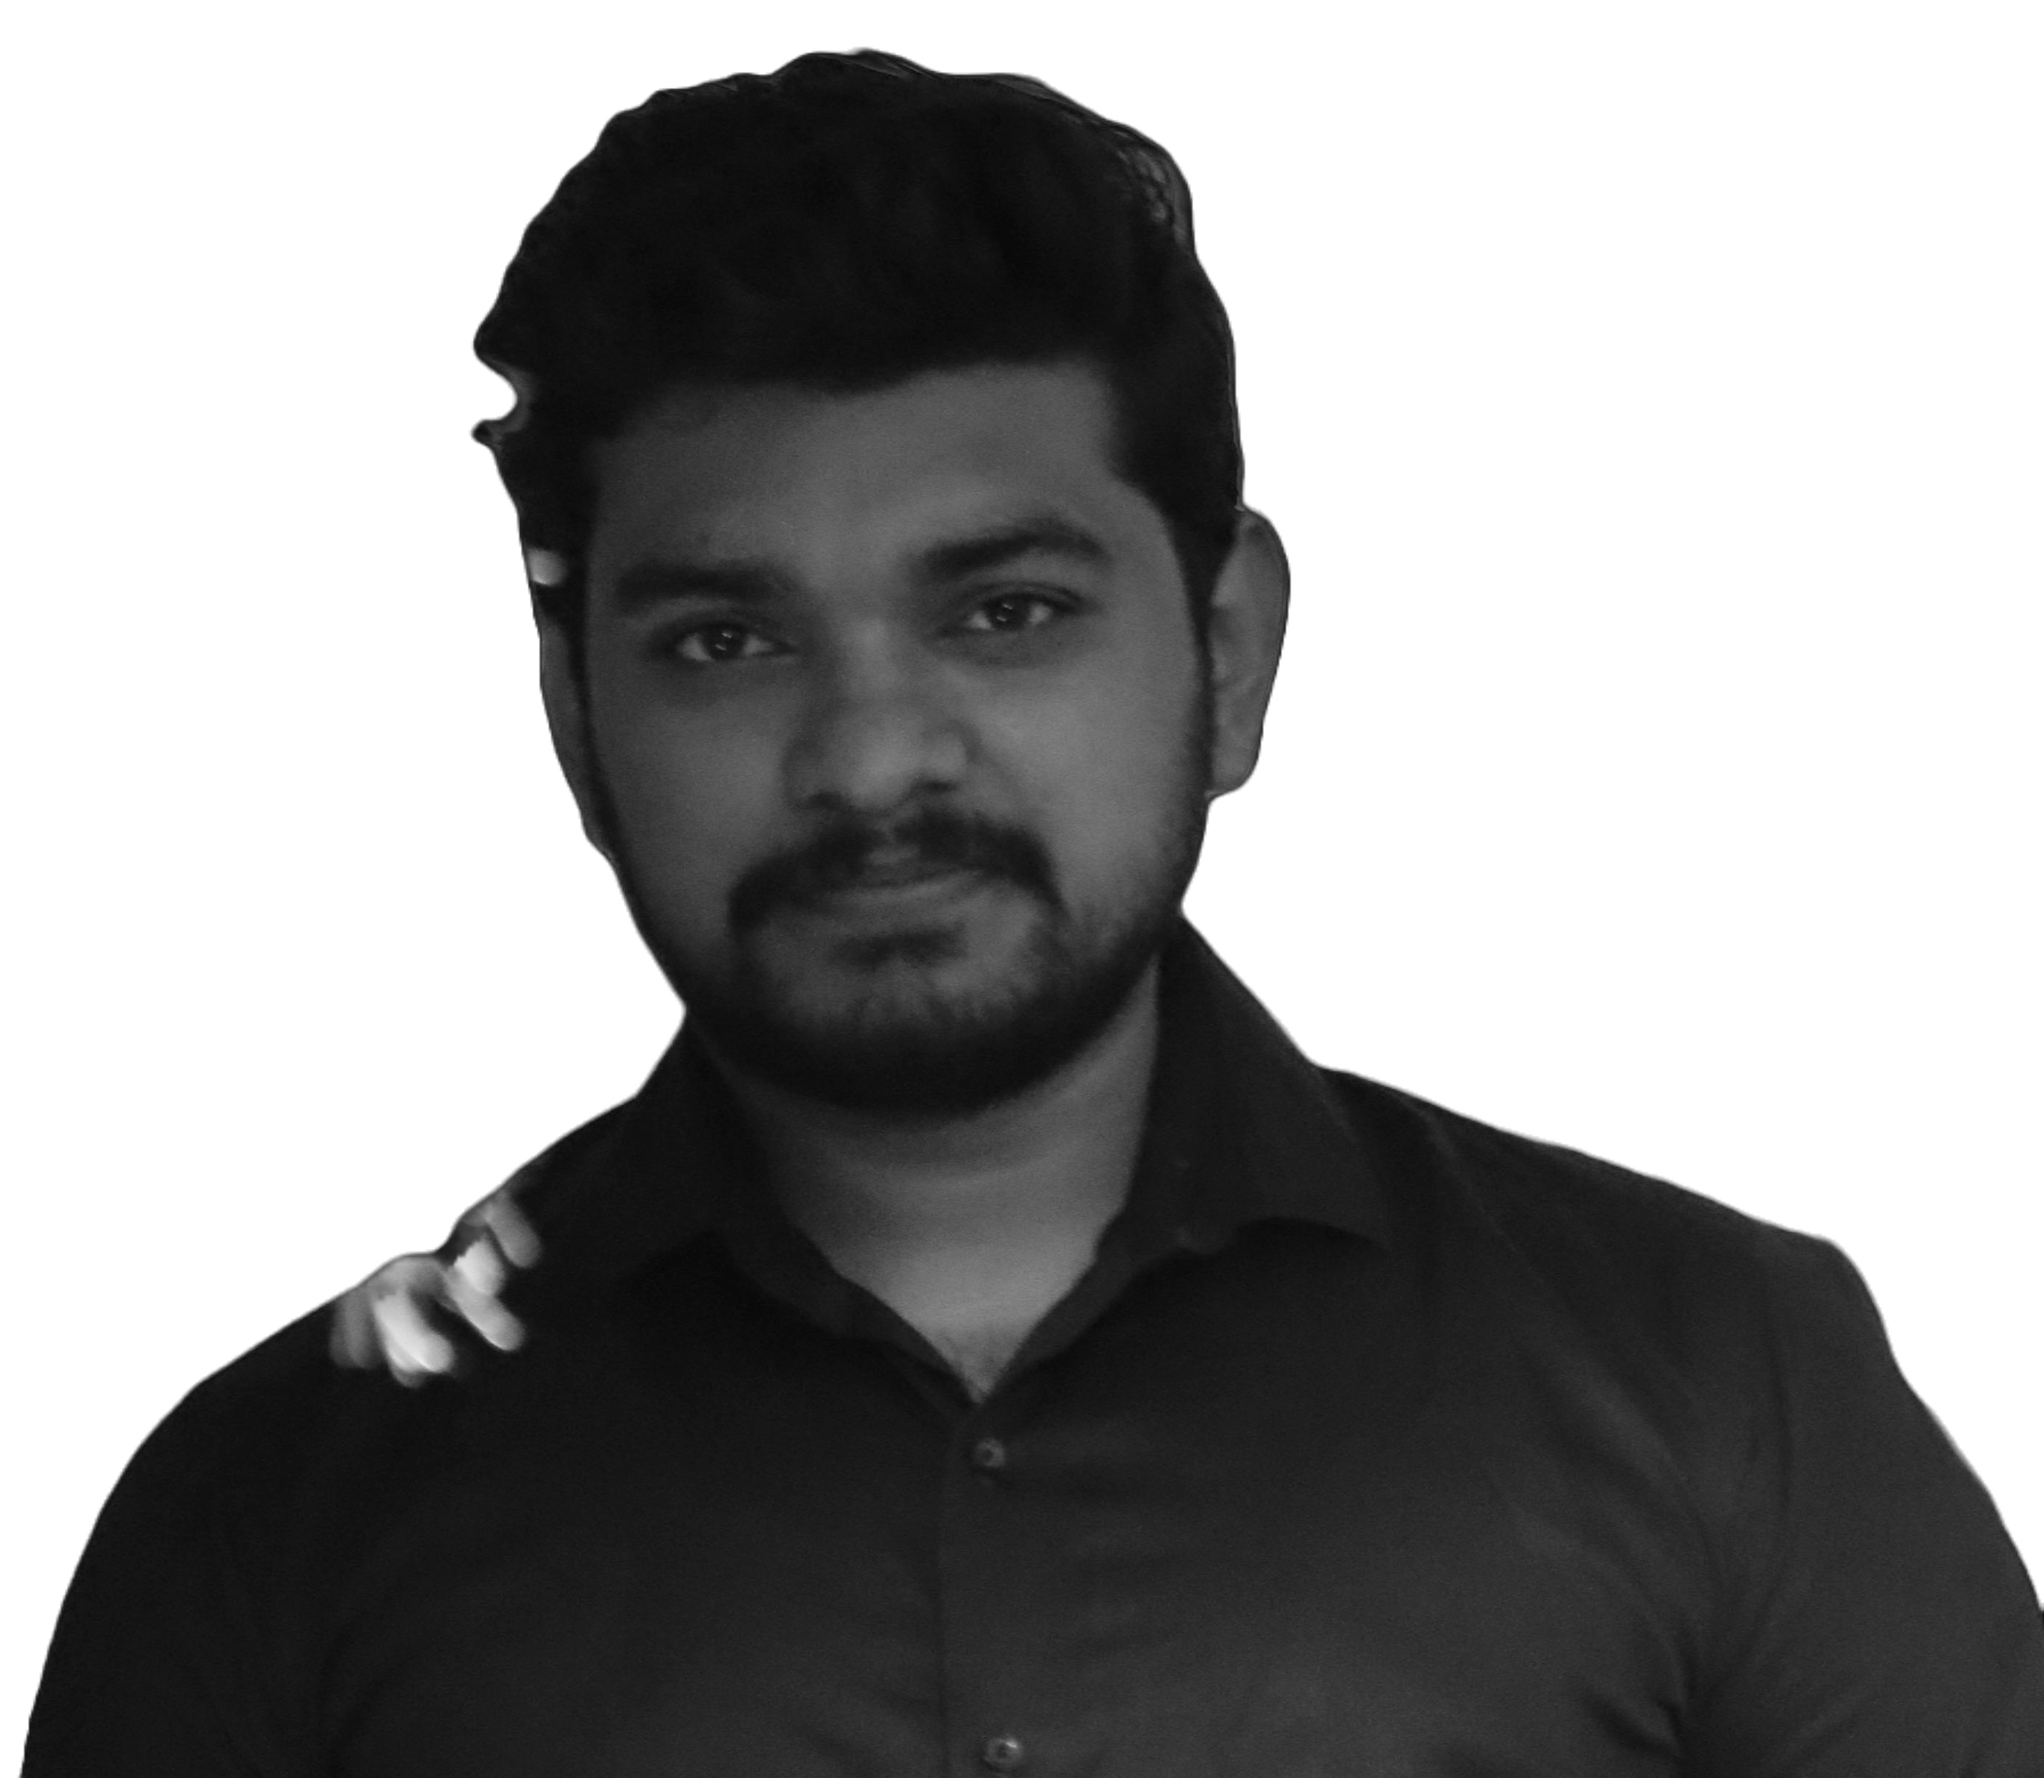
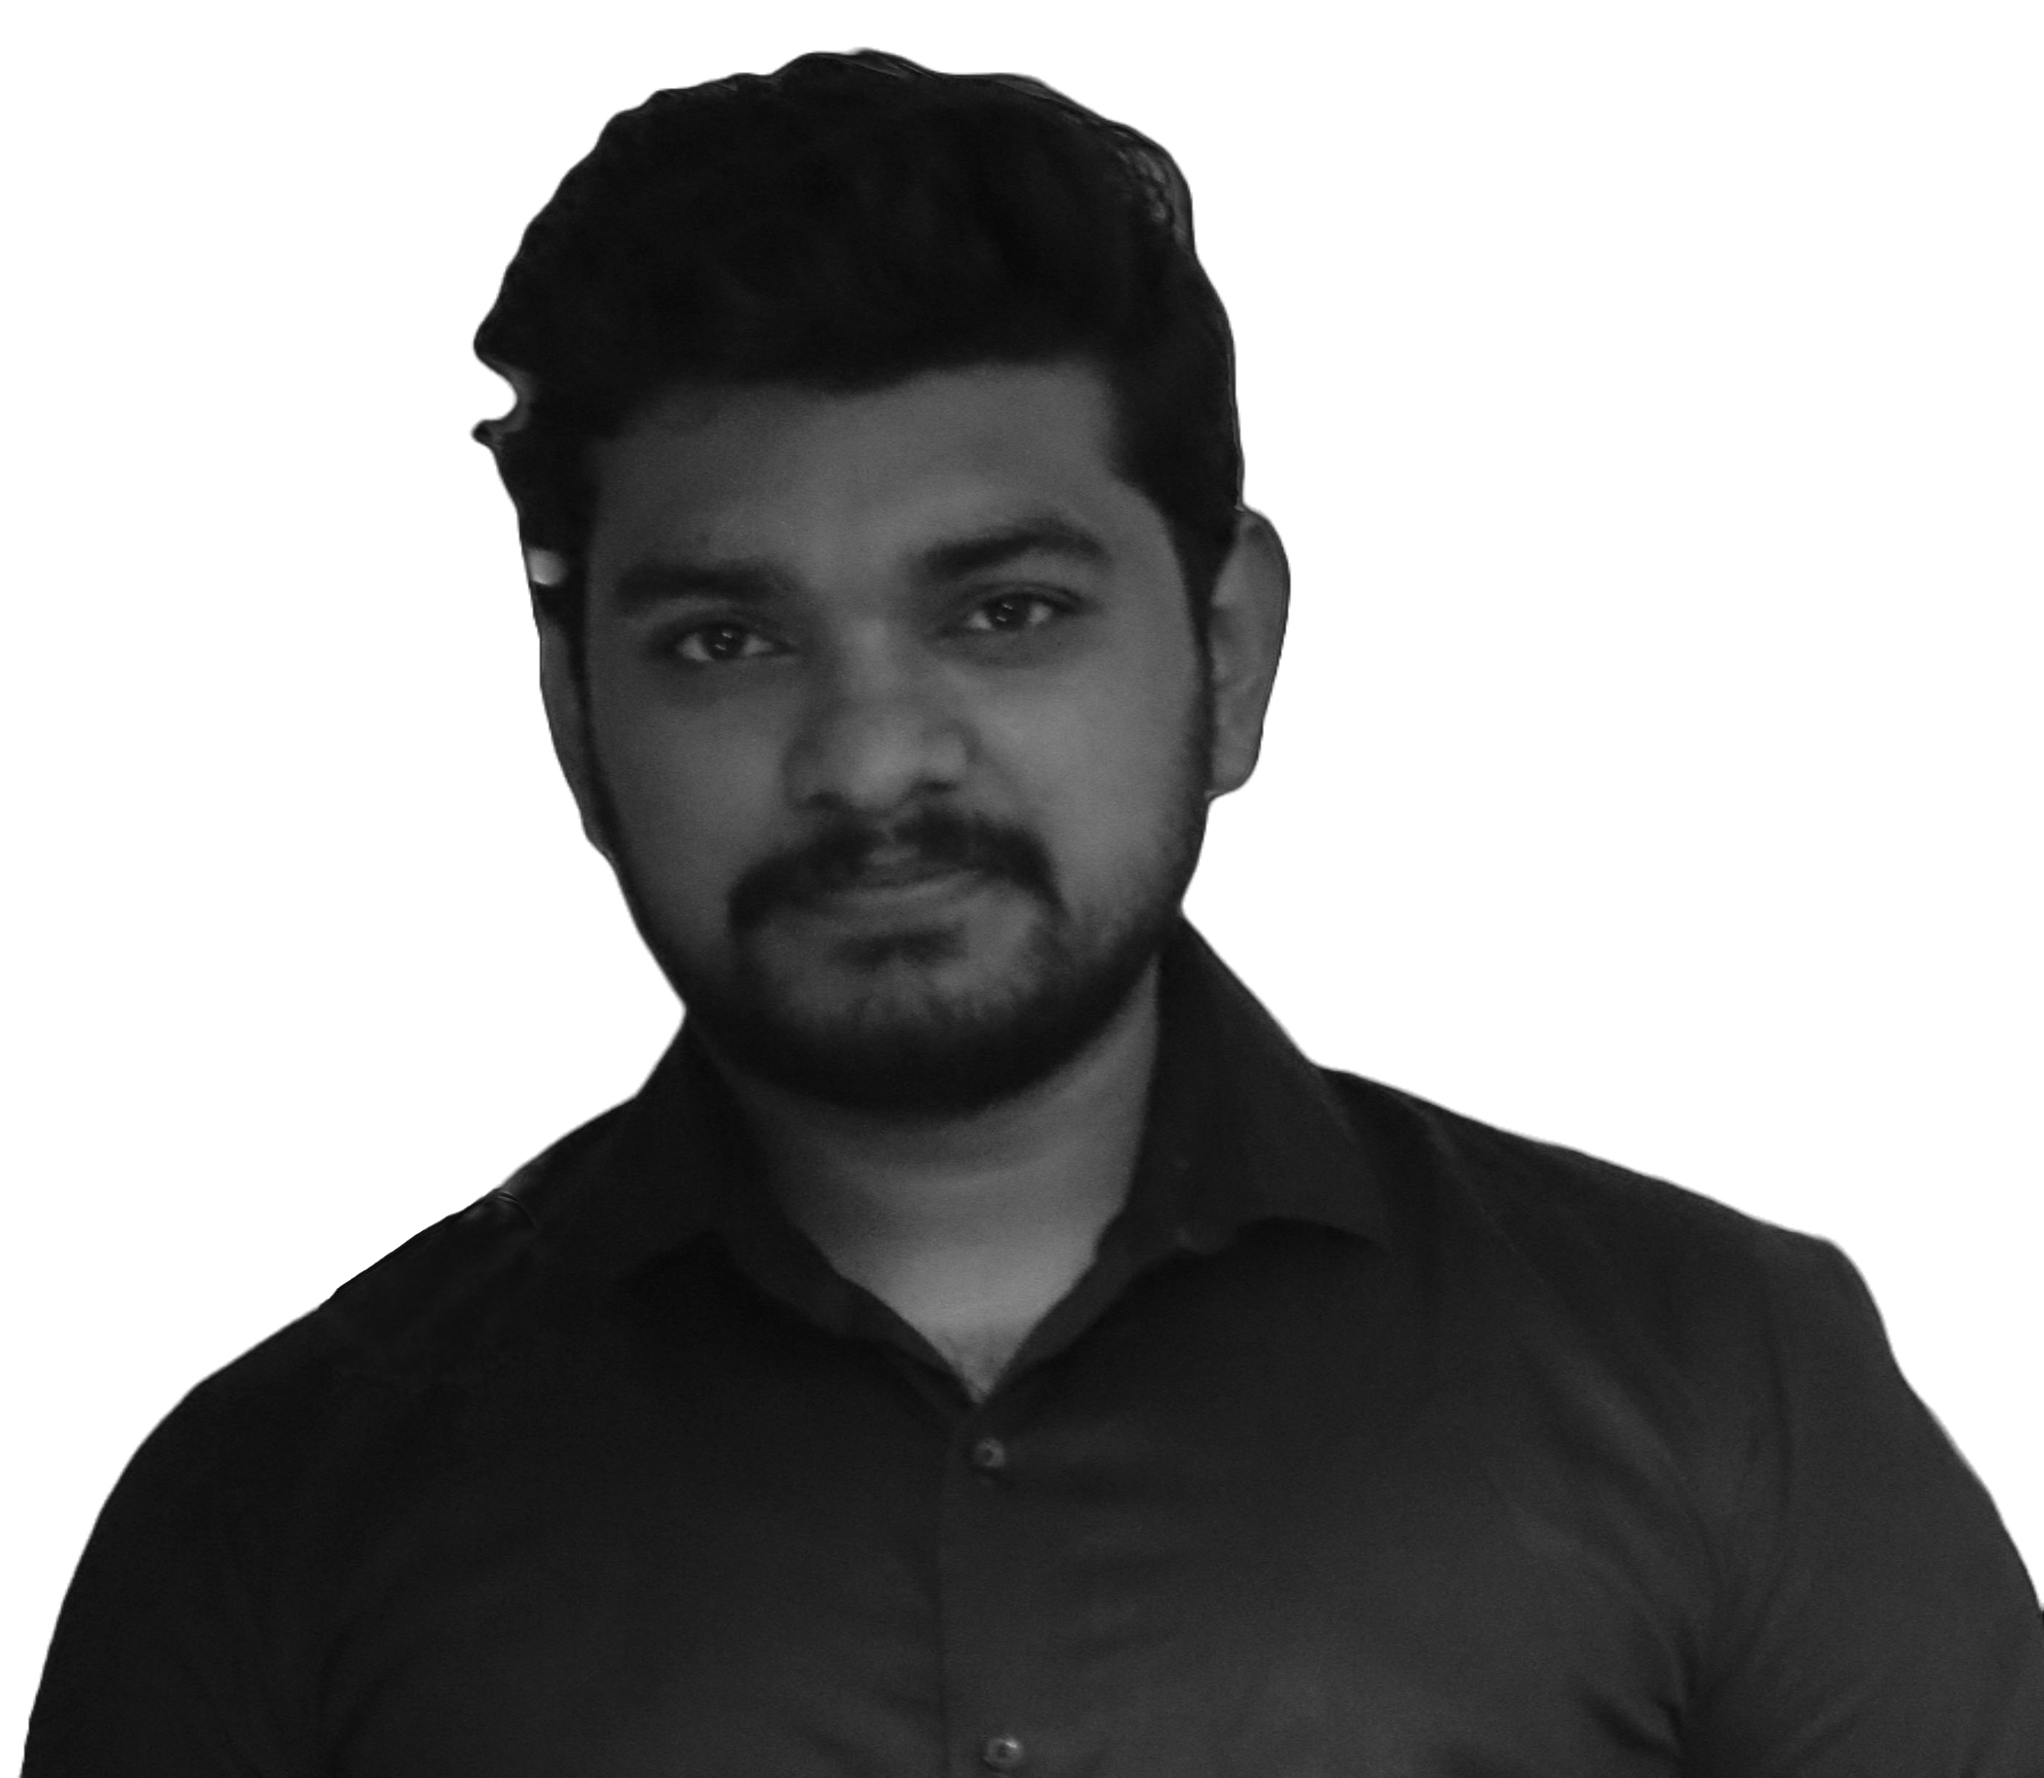
Mail and photo

Changed region(s): [[0.1545, 0.6497, 0.2782, 0.7734]]

diff --git a/main/src/components/Contact.jsx b/main/src/components/Contact.jsx
@@ -26,19 +26,19 @@ const Contact = () => {
     setLoading(true);
 
     // sign up on emailjs.com (select the gmail service and connect your account).
-    //click on create a new template then click on save.
+    // click on create a new template then click on save.
     emailjs
       .send(
-        'serviceID', // paste your ServiceID here (you'll get one when your service is created).
-        'templateID', // paste your TemplateID here (you'll find it under email templates).
+        'service_db8m2fk', // paste your ServiceID here (you'll get one when your service is created).
+        'template_2pwwiyo', // paste your TemplateID here (you'll find it under email templates).
         {
           from_name: form.name,
-          to_name: 'YourName', // put your name here.
+          to_name: 'Manikanta Reddy Kallam', // put your name here.
           from_email: form.email,
-          to_email: 'youremail@gmail.com', //put your email here.
+          to_email: 'contact@@themani.dev', //put your email here.
           message: form.message,
         },
-        'yourpublickey' //paste your Public Key here. You'll get it in your profile section.
+        '0SxXg64-JGAFaxp2v' //paste your Public Key here. You'll get it in your profile section.
       )
       .then(
         () => {

diff --git a/main/src/constants/index.js b/main/src/constants/index.js
@@ -180,7 +180,7 @@ const projects = [
     id: 'project-2',
     name: 'Dashboard',
     description:
-      'An automated pipeline to provide insights on uber data',
+      'An automated pipeline to provide insights on Crime records in Sanfrancisco',
     tags: [
       {
         name: 'GCP',
@@ -196,8 +196,8 @@ const projects = [
       },
     ],
     image: leaderboard,
-    repo: 'https://github.com/manireddy1997',
-    demo: 'https://manireddy1997.github.io/',
+    repo: 'https://github.com/manireddy1997/CrimeAnalysisSF#an-analytics-on-the-sanfrancisco-crimes',
+    demo: 'https://dashboard.themani.dev/',
   },
   {
     id: 'project-3',
